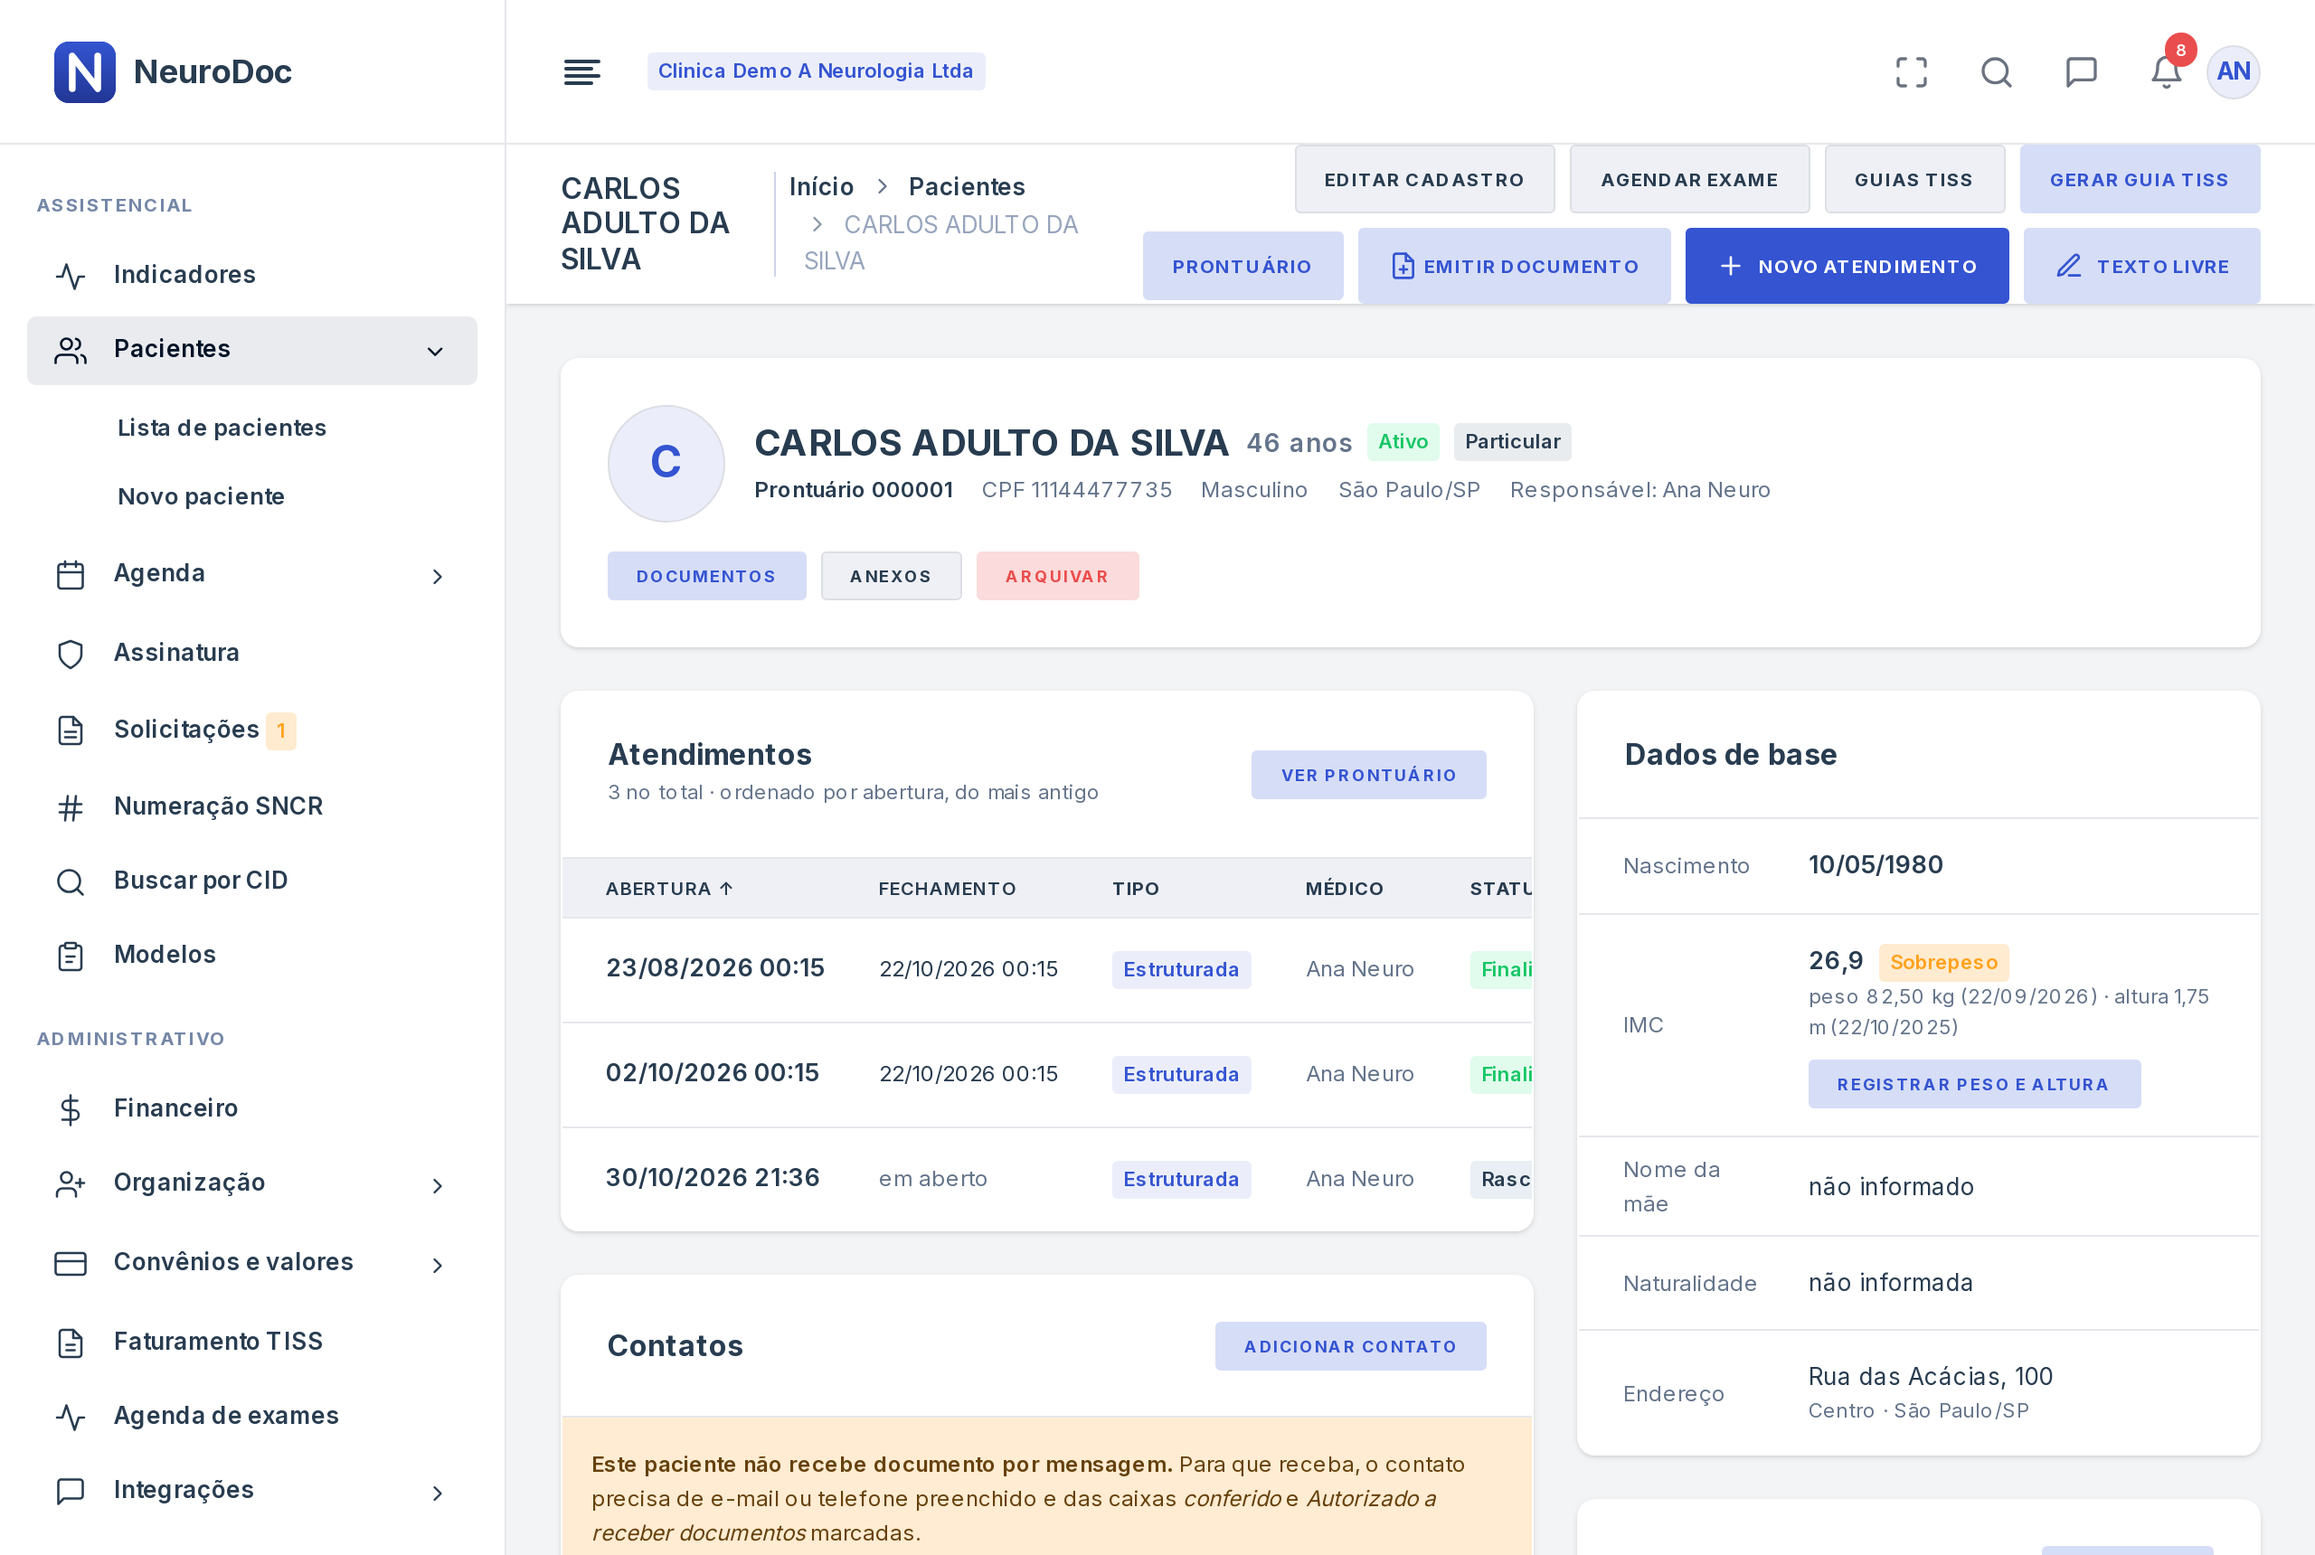
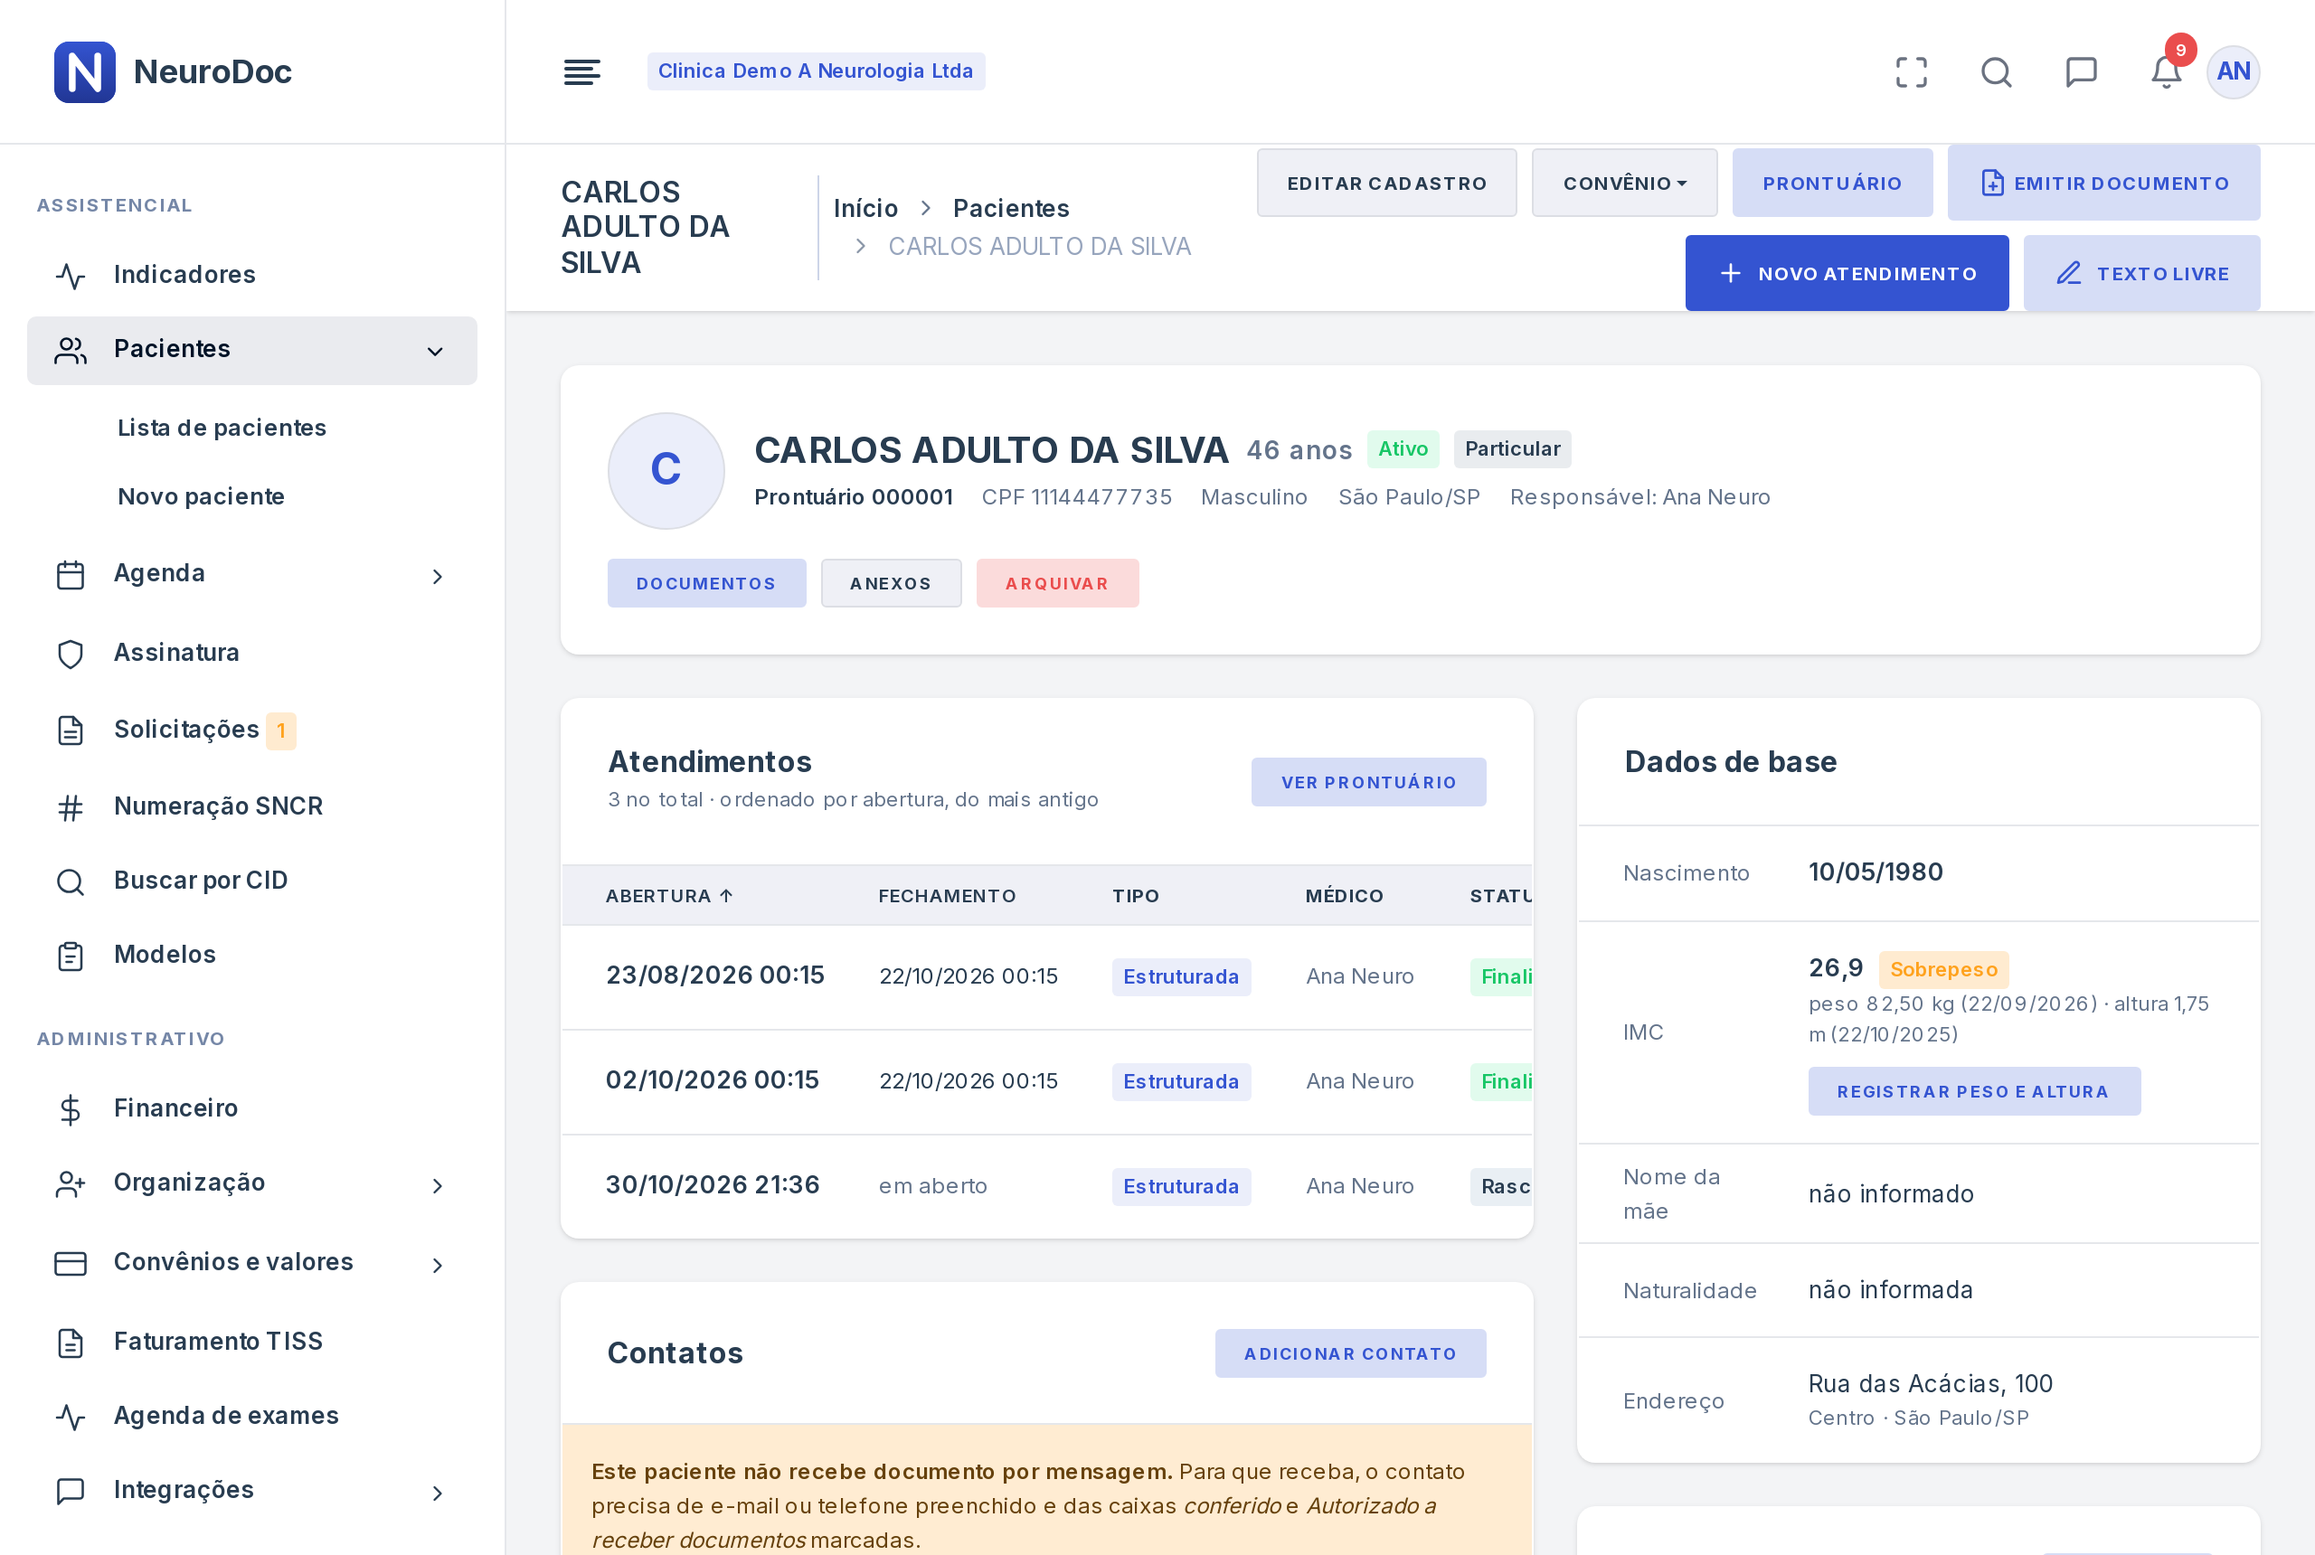
Ficha do paciente: agenda de exames e TISS no menu Convênio
Os três botões novos (Agendar exame, Guias TISS, Gerar guia TISS)
somavam oito no topo da ficha. Agora ficam num menu só, com a mesma
regra de permissão de cada item; o manual e a captura da ficha
acompanham.

diff --git a/templates/patients/detail.html b/templates/patients/detail.html
@@ -9,18 +9,26 @@
 {% endblock %}
 {% block page_actions %}
 <a class="btn btn-light" href="{% url 'patients:update' patient.id %}">Editar cadastro</a>
-{% comment %}Faturamento TISS (1.30): na ficha administrativa, que a
-recepção já abre. A guia não carrega prontuário, e a capacidade não é
-`read_clinical` — é `tiss_prepare`, que só existe com o plano e a clínica
-liberada; `nd_tiss_ativo` é a chave da instalação.{% endcomment %}
-{% if nd_can.exames_agendar %}
-<a class="btn btn-light" href="{% url 'agenda_exames:agenda' %}?paciente={{ patient.id }}">Agendar exame</a>
-{% endif %}
-{% if nd_can.tiss_view and nd_tiss_ativo %}
-<a class="btn btn-light" href="{% url 'tiss:guias' %}?paciente={{ patient.id }}">Guias TISS</a>
-{% if nd_can.tiss_prepare %}
-<a class="btn btn-light-primary" href="{% url 'tiss:guia-nova' %}?paciente={{ patient.id }}">Gerar guia TISS</a>
-{% endif %}
+{% comment %}Convênio (1.30): agenda de exames e TISS num menu só. Eram três
+botões soltos no topo da ficha e, com os outros cinco, o nome do paciente
+quebrava em três linhas. O menu só nasce se houver ao menos um item; a
+regra de cada item continua a mesma — `tiss_prepare` não é `read_clinical`,
+e `nd_tiss_ativo` é a chave da instalação.{% endcomment %}
+{% if nd_can.exames_agendar or nd_can.tiss_view and nd_tiss_ativo %}
+<div class="dropdown">
+    <button type="button" class="btn btn-light dropdown-toggle" data-bs-toggle="dropdown" aria-expanded="false">Convênio</button>
+    <ul class="dropdown-menu dropdown-menu-end">
+        {% if nd_can.exames_agendar %}
+        <li><a class="dropdown-item" href="{% url 'agenda_exames:agenda' %}?paciente={{ patient.id }}">Agendar exame</a></li>
+        {% endif %}
+        {% if nd_can.tiss_view and nd_tiss_ativo %}
+        {% if nd_can.tiss_prepare %}
+        <li><a class="dropdown-item" href="{% url 'tiss:guia-nova' %}?paciente={{ patient.id }}">Gerar guia TISS</a></li>
+        {% endif %}
+        <li><a class="dropdown-item" href="{% url 'tiss:guias' %}?paciente={{ patient.id }}">Guias TISS do paciente</a></li>
+        {% endif %}
+    </ul>
+</div>
 {% endif %}
 {% if nd_can.read_clinical %}
 <a class="btn btn-light-primary" href="{% url 'clinical:timeline' patient.id %}">Prontuário</a>

diff --git a/base/help_content.py b/base/help_content.py
@@ -635,8 +635,8 @@ ARTICLES = [
              'que pediu o exame. A operadora precisa estar em **Convênios e planos** com o '
              'registro ANS; dá para buscá-la na lista oficial da ANS.',
              'tiss-inicio.png', 'Prestador, credenciamento e profissionais'),
-            ('**Gere a guia.** Na ficha do paciente, no horário da agenda ou no atendimento, '
-             '**Gerar guia TISS**; para exame da agenda de exames, **Gerar guia TISS** no '
+            ('**Gere a guia.** Na ficha do paciente, menu **Convênio → Gerar guia TISS**; no '
+             'horário da agenda ou no atendimento, **Gerar guia TISS**; para exame da agenda de exames, **Gerar guia TISS** no '
              'próprio exame realizado. A guia já vem com convênio, carteira, credenciamento e '
              'profissionais; na de Consulta de quem fez check-in, a consulta cobrada entra '
              'vinculada à cobrança — nenhuma cobrança nova é criada.',
@@ -679,7 +679,7 @@ ARTICLES = [
              'atravessar a meia-noite (20:00 até 07:00) — e os **bloqueios** (manutenção, '
              'férias do técnico).',
              '', ''),
-            ('**Marque.** Na ficha do paciente, **Agendar exame**, ou direto na **Agenda de '
+            ('**Marque.** Na ficha do paciente, menu **Convênio → Agendar exame**, ou direto na **Agenda de '
              'exames**: escolha a agenda e o dia, e clique num horário livre. Informe quem pediu '
              'o exame e, se já souber, a forma de cobrança (particular ou convênio). Fora do '
              'horário, só como **encaixe**, com o motivo. A polissonografia das 21h às 7h '
